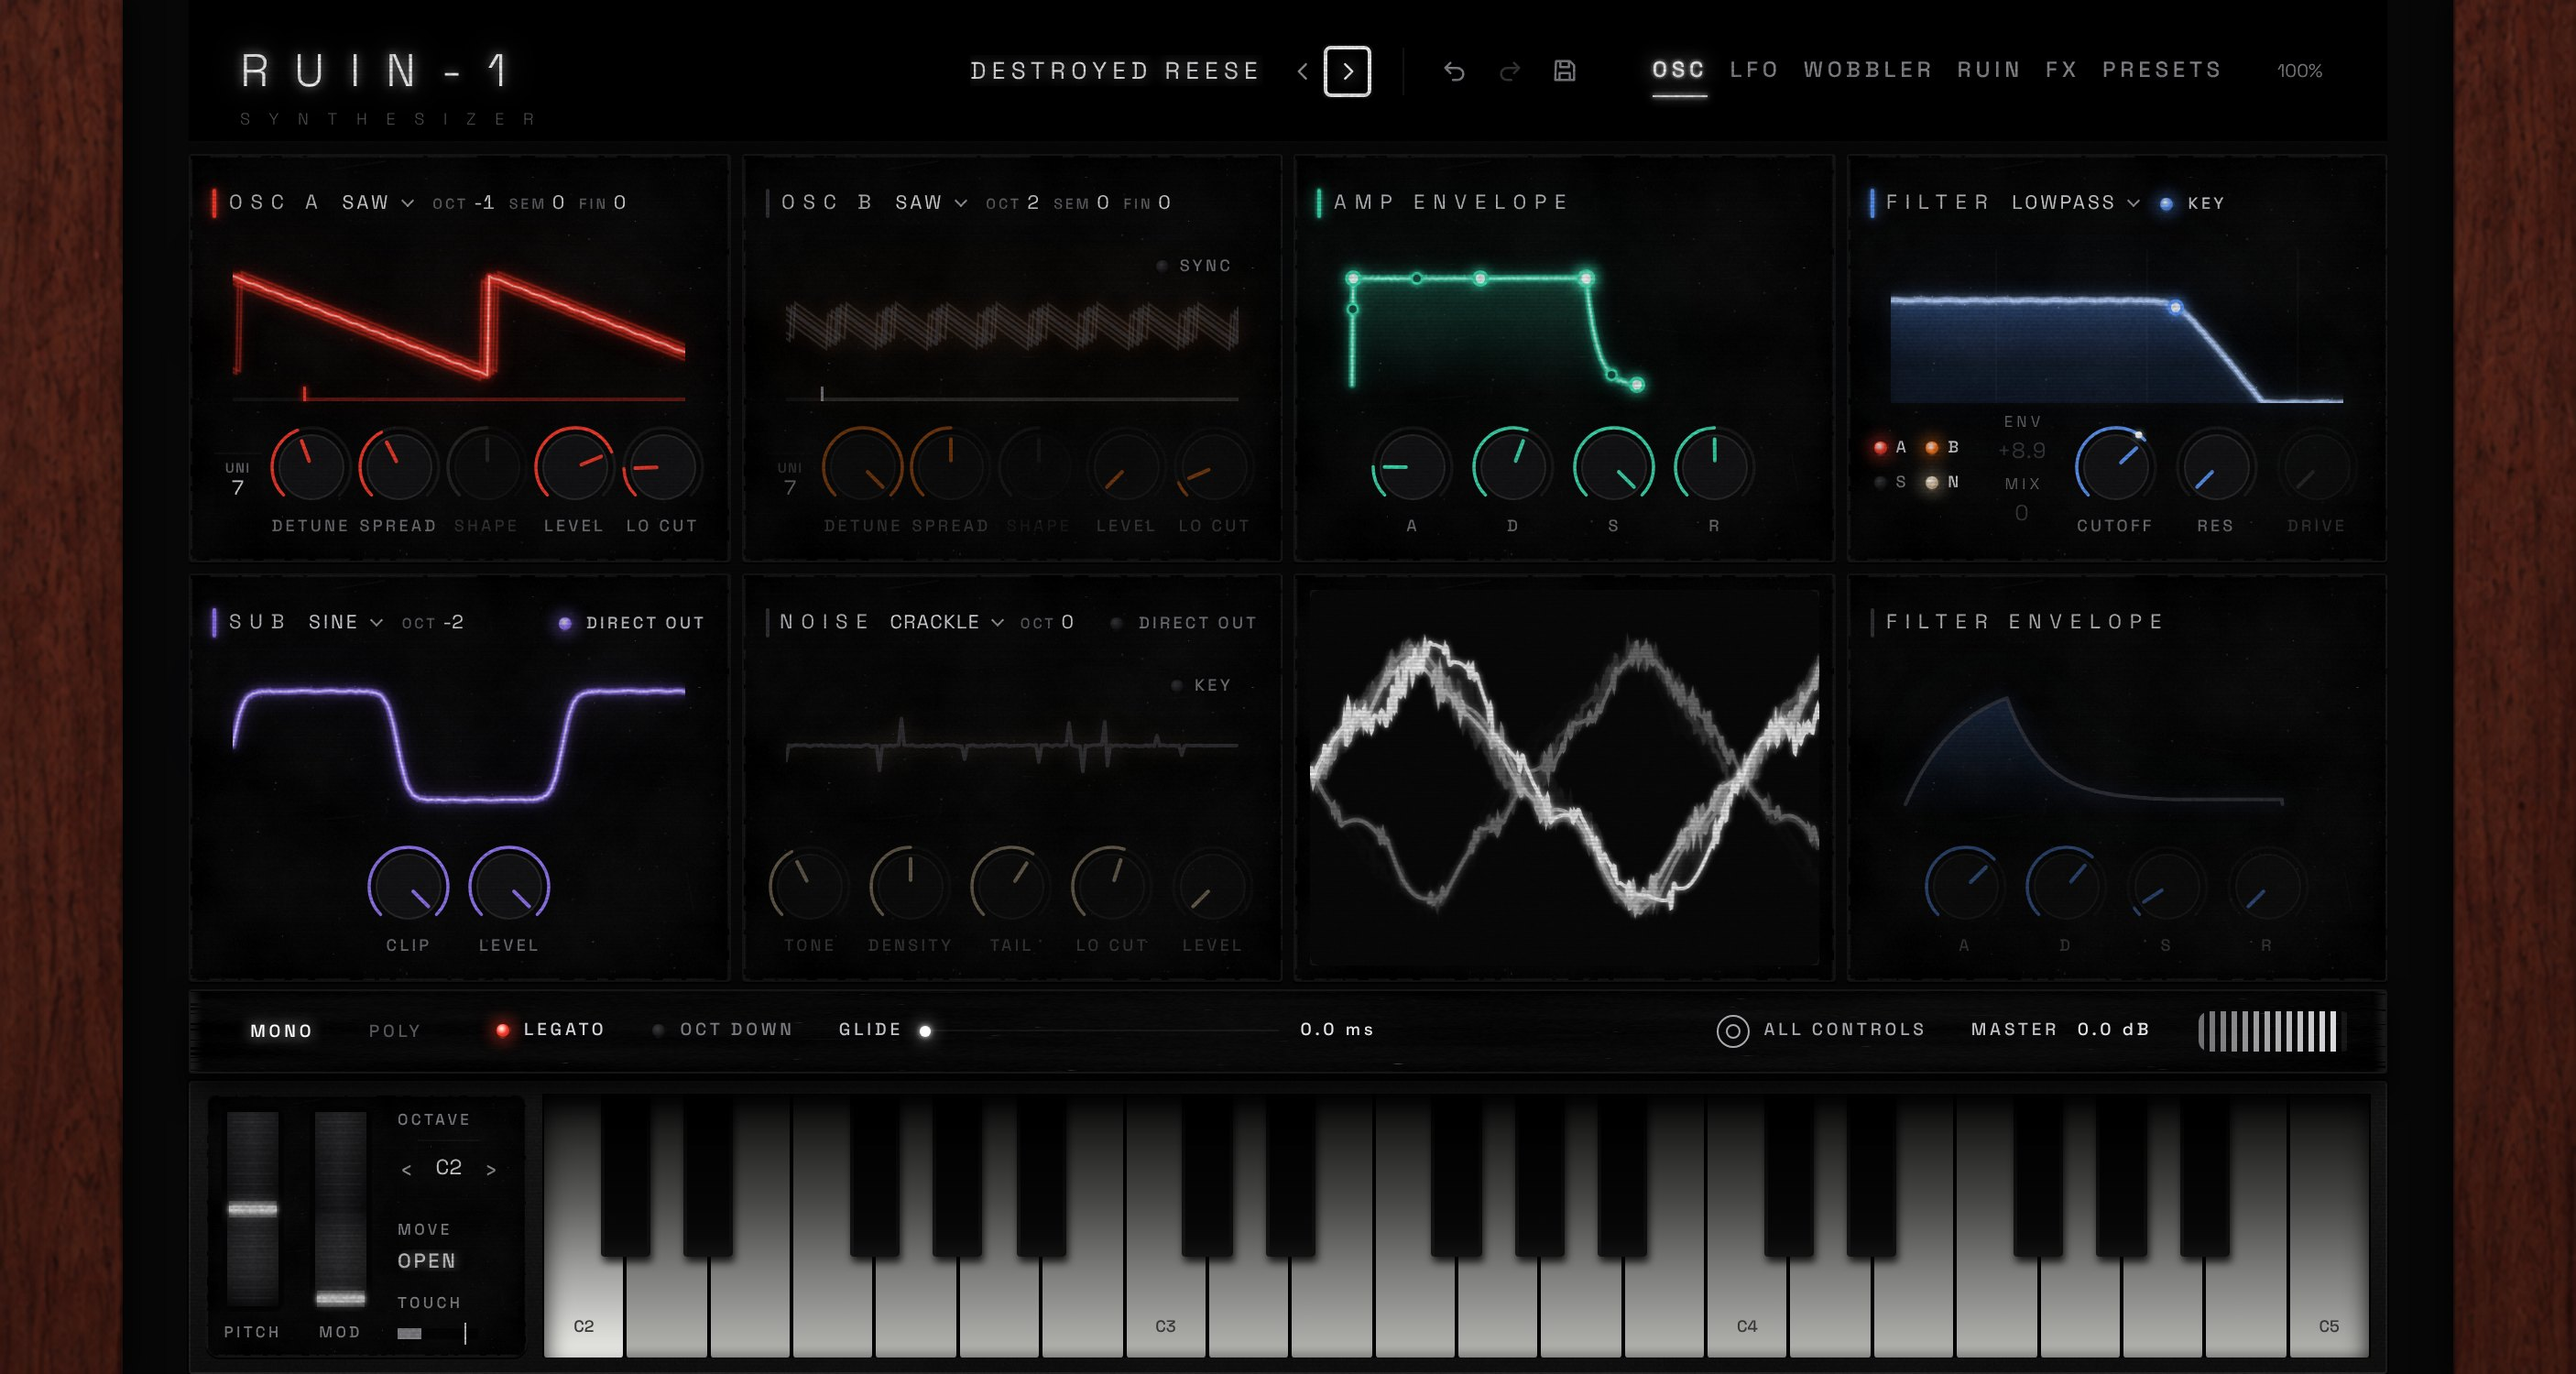
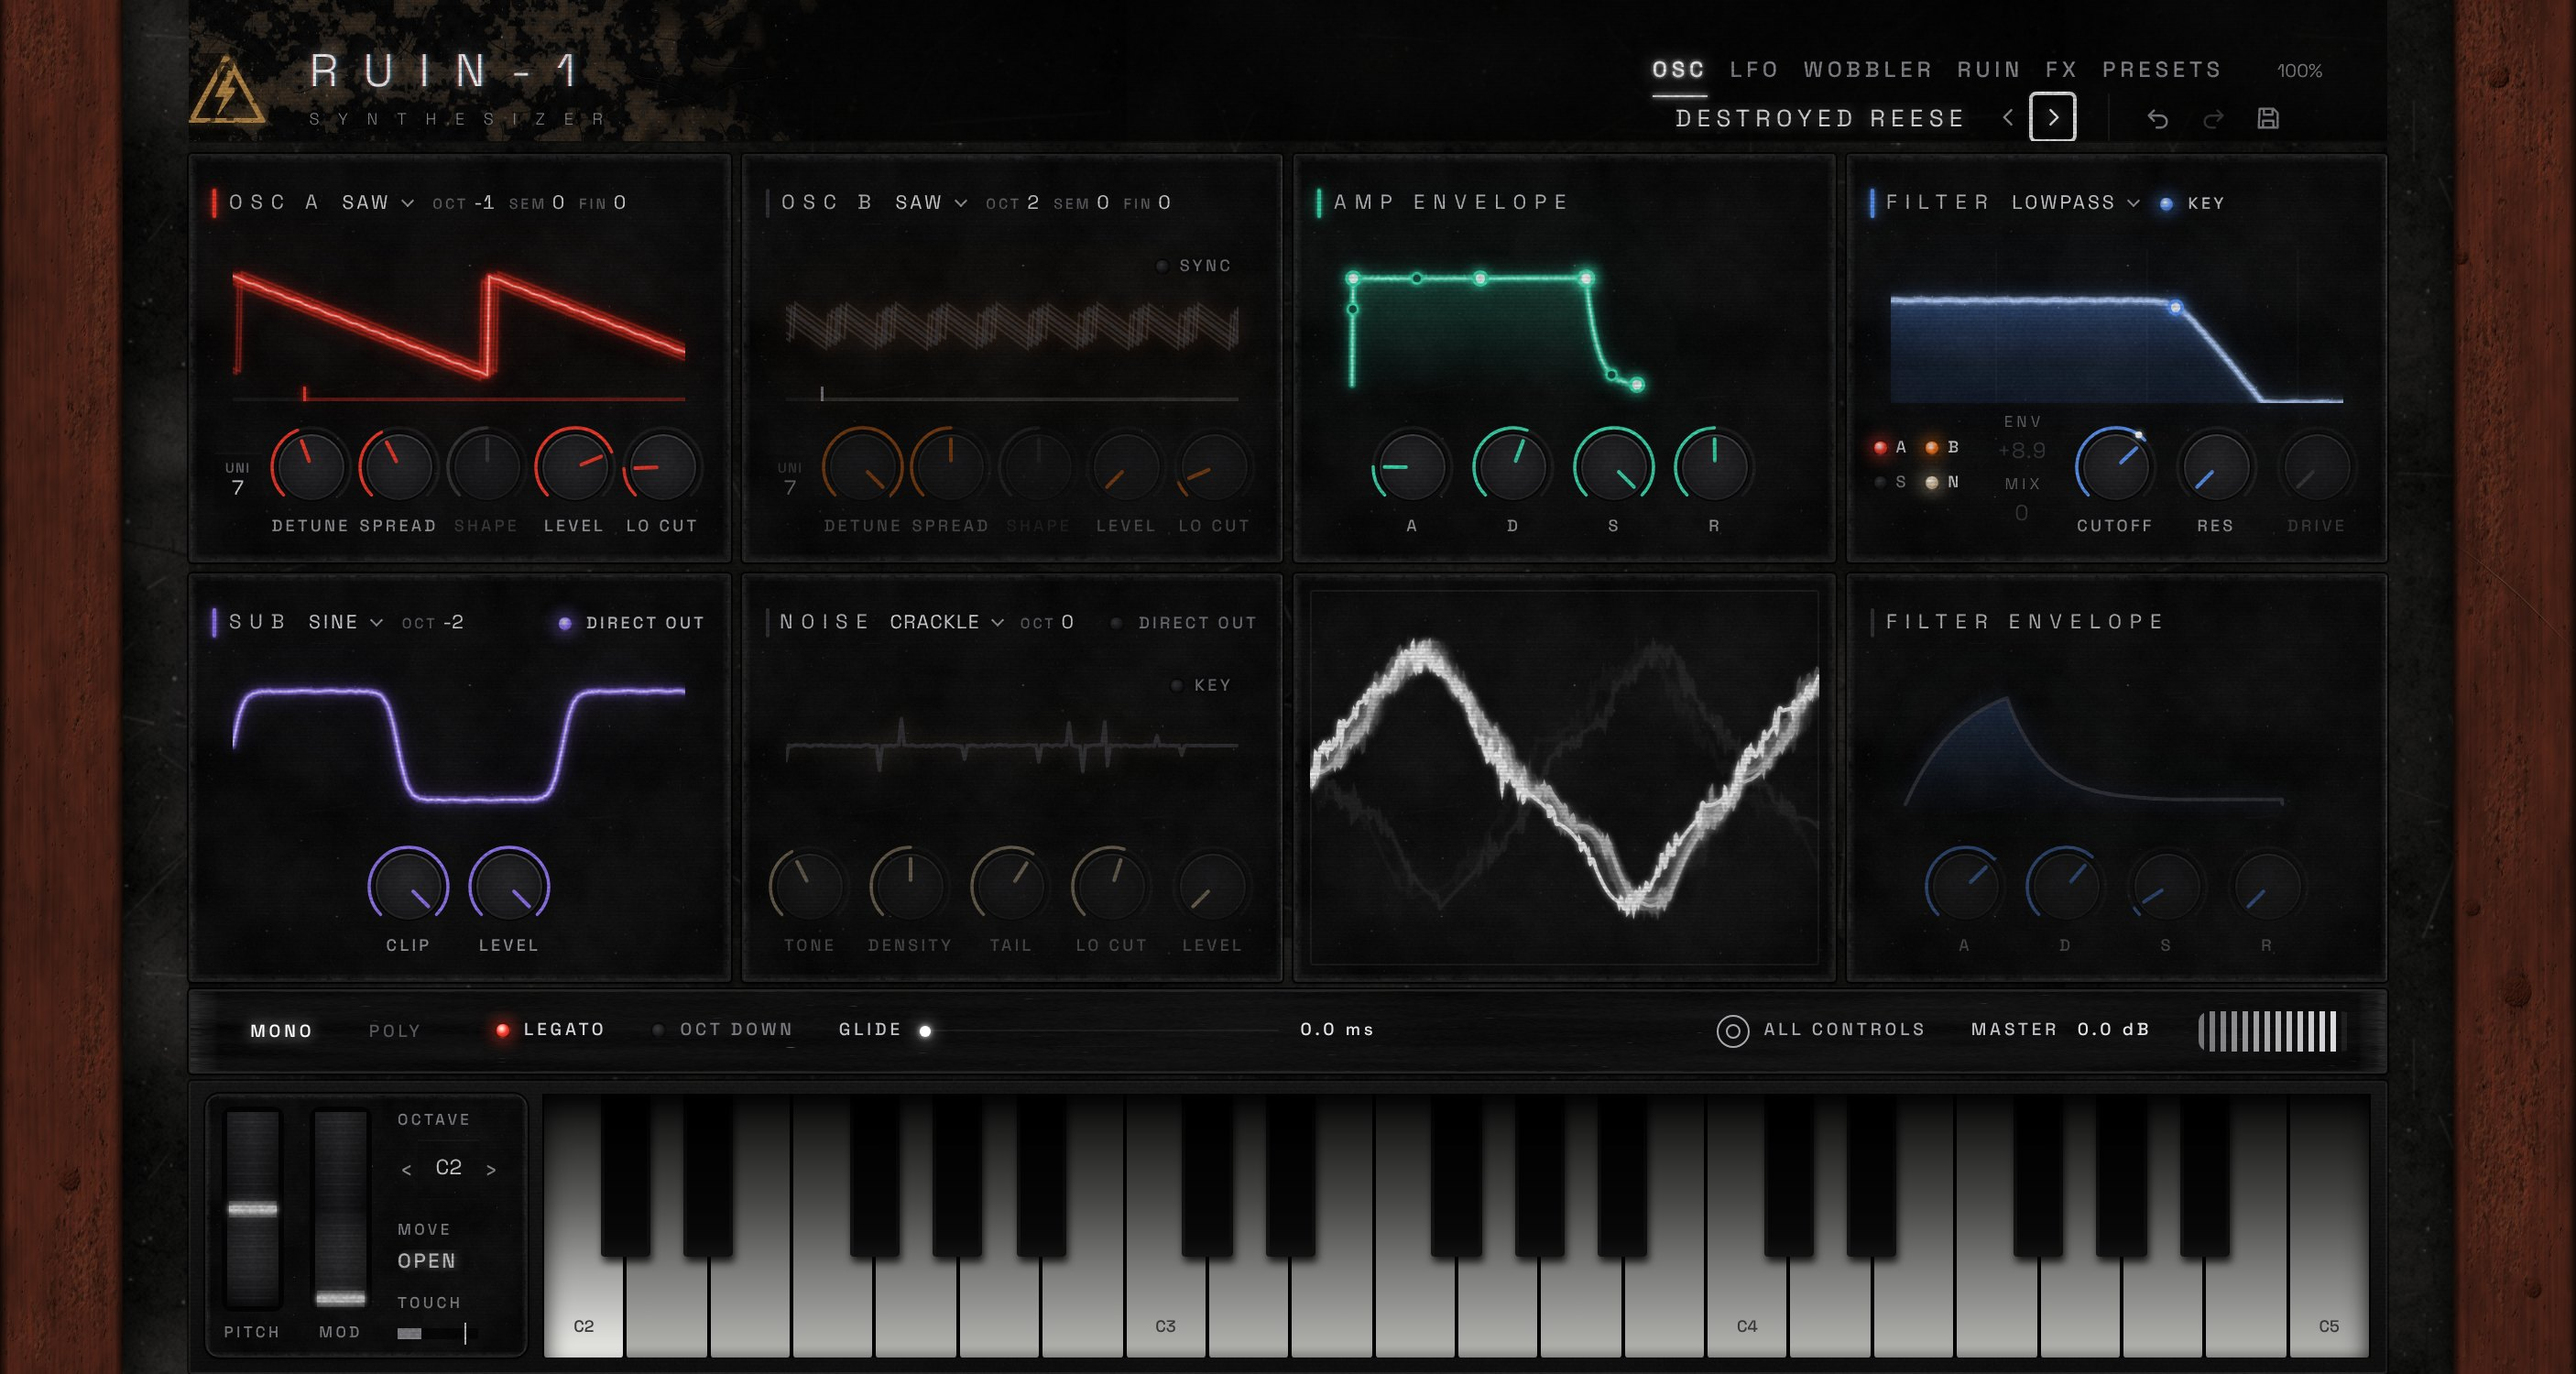
Website: new shots from the prototype; the hero shows the synth itself again instead of the mockup
Claude-Session: https://claude.ai/code/session_015t9iDSEcbpZBuL6vXJAvue

diff --git a/website/index.html b/website/index.html
@@ -35,9 +35,8 @@
         <div class="ctas hero-ctas"><a class="btn btn-o" href="#buy">Buy now <span aria-hidden="true">›</span></a><a class="btn btn-g" href="#sound">Hear the demo <span aria-hidden="true">▷</span></a></div>
         <p class="hero-meta">VST3 · Standalone · Fully offline</p>
       </div>
-      <!-- for now the owner's edited picture of the synth (the look the prototype is heading to); once the prototype
-           looks like it, switch back to assets/shots/osc.jpg, taken from the synth by tools/site-shots.mjs -->
-      <figure class="hero-shot"><img src="assets/shots/hero-mockup.jpg" alt="The RUIN-1 synthesizer: oscillators, envelopes, filter and keyboard" width="1330" height="711"></figure>
+      <!-- the synth as it is now, taken from it by tools/site-shots.mjs (the prototype has the look of the owner's mockup) -->
+      <figure class="hero-shot"><img src="assets/shots/osc.jpg" alt="The RUIN-1 synthesizer: oscillators, envelopes, filter and keyboard" width="2812" height="1500"></figure>
     </div>
   </section>
 
